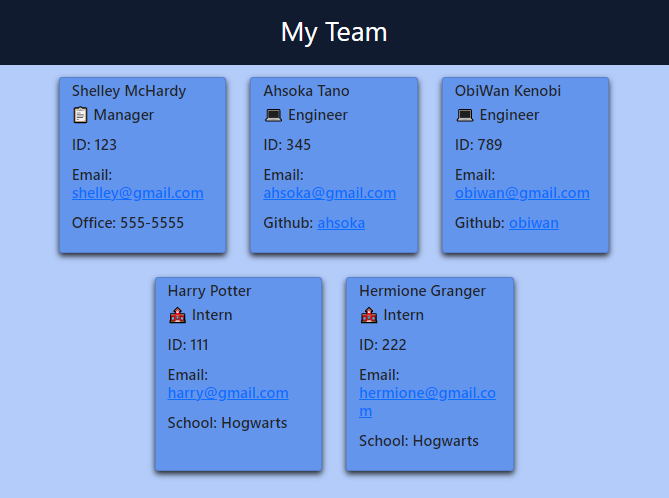
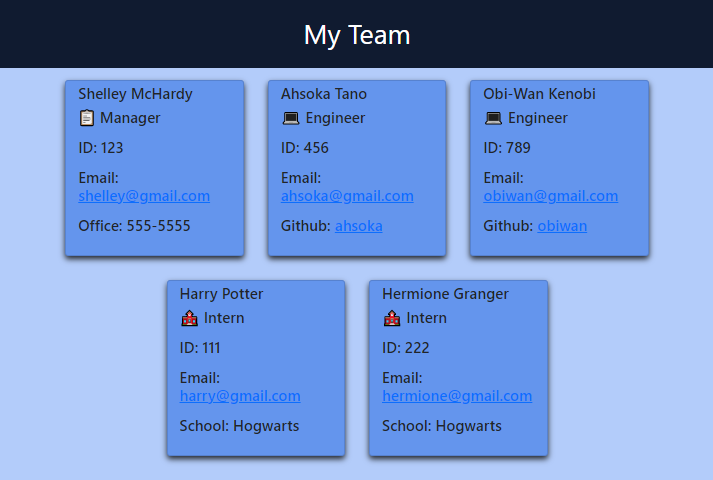
updated readme and sample html file

Changed region(s): [[0.0, 0.0312, 1.0, 0.9688], [0.5381, 0.875, 0.7175, 0.9062]]

diff --git a/dist/sample.html b/dist/sample.html
@@ -4,7 +4,6 @@
         <meta charset="UTF-8">
         <meta http-equiv="X-UA-Compatible" content="IE=edge">
         <meta name="viewport" content="width=device-width, initial-scale=1.0">
-        <link rel="stylesheet" href="https://use.fontawesome.com/releases/v5.0.7/css/all.css"></link>
         <link href="https://cdn.jsdelivr.net/npm/bootstrap@5.0.2/dist/css/bootstrap.min.css" rel="stylesheet" integrity="sha384-EVSTQN3/azprG1Anm3QDgpJLIm9Nao0Yz1ztcQTwFspd3yD65VohhpuuCOmLASjC" crossorigin="anonymous">
         <link rel="stylesheet" href="../dist/style.css">
         <title>My Team</title>
@@ -25,13 +24,13 @@
             <div class="card">
                 <h5>Ahsoka Tano<h5>
                 <p>&#128187 Engineer</p>
-                <p>ID: 345</p>
+                <p>ID: 456</p>
                 <p>Email: <a href="mailto:ahsoka@gmail.com">ahsoka@gmail.com</a></p>
                 <p>Github: <a href="https://github.com/ahsoka" target="_blank">ahsoka</a></p>
 
             </div>
             <div class="card">
-                <h5>ObiWan Kenobi<h5>
+                <h5>Obi-Wan Kenobi<h5>
                 <p>&#128187 Engineer</p>
                 <p>ID: 789</p>
                 <p>Email: <a href="mailto:obiwan@gmail.com">obiwan@gmail.com</a></p>

diff --git a/src/htmlGenerator.js b/src/htmlGenerator.js
@@ -8,7 +8,6 @@ const htmlGenerator = (employeesArray) => {
         <meta charset="UTF-8">
         <meta http-equiv="X-UA-Compatible" content="IE=edge">
         <meta name="viewport" content="width=device-width, initial-scale=1.0">
-        <link rel="stylesheet" href="https://use.fontawesome.com/releases/v5.0.7/css/all.css"></link>
         <link href="https://cdn.jsdelivr.net/npm/bootstrap@5.0.2/dist/css/bootstrap.min.css" rel="stylesheet" integrity="sha384-EVSTQN3/azprG1Anm3QDgpJLIm9Nao0Yz1ztcQTwFspd3yD65VohhpuuCOmLASjC" crossorigin="anonymous">
         <link rel="stylesheet" href="../dist/style.css">
         <title>My Team</title>

diff --git a/README.md b/README.md
@@ -10,9 +10,12 @@ This app allows a user to create an html page containing information about a gro
 * [Testing](#Testing)
 * [Questions](#Questions)
 ## Installation
-Download this package and run node install.
+Download this package and run node install for the dependencies.
 ## Usage
+Use node index.js from the command line to initiate app.
+
 Follow this link to watch a video demonstration of the app: https://youtu.be/o-iPcZrYW1A
+
 ![teambuilder screenshot](teambuilder.png)
 ## Testing
 none at this time
